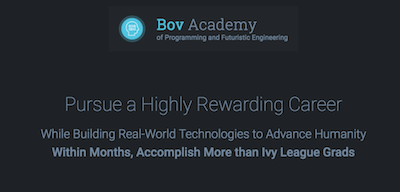
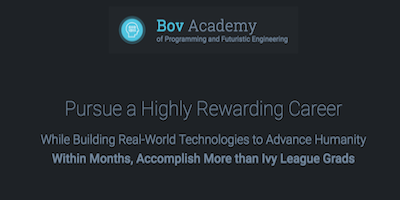
made herald responsive

diff --git a/index.html b/index.html
@@ -5446,21 +5446,19 @@ $search-second-size-multiplier: .7;
       <section class="website-components__component" id="herald">
 
       <h3>Herald Component</h3>
-      <p>Inspired by the heralds of yore who conveyed a monarch's proclamation, the main attraction of The Herald is the unfurling border and the dropped message with a banner. The component features a 400x200 image (or any 2:1 sized image if scaling up is desired) and a place for textual content. Ideally, The Herald is useful for small listings, although any message size will fit inside The Herald component because the height is determined and set dynamically.</p>
+      <p>Inspired by the heralds of yore who conveyed a monarch's proclamation, the main attraction of The Herald is the unfurling border and the dropped message with a banner. The component features an image with a width and height of 2:1 and a place for textual content. Ideally, The Herald is useful for small listings, although any message size will fit inside The Herald component because the message length is evaluated dynamically.</p>
 
-      <p>To use: <br> <br> I. Copy the markup below, then place announcements inside the <code>c-herald__message</code> tag. Each unique announcement must be placed within <code>&lt;p></code> tags. Next, add the number of announcements inside <code>c-chip__media--o</code>. Inputting the number of announcements is recommended in case users have disabled JavaScript. Note: The number of announcements in <code>c-chip__media--o </code> are based on the number of <code>&lt;p></code> tags. This number is updated dynamically in the event the number of announcements was not inputted.</p>
+      <p>To use: <br> <br>Copy the markup below, then place announcements inside the <code>c-herald__message</code> tag beneath the image. Each unique announcement must be placed within <code>&lt;p></code> tags. Next, add the number of announcements inside <code>c-chip__media--o</code>. Inputting the number of announcements is recommended in case users have disabled JavaScript. Note: The number of announcements in <code>c-chip__media--o </code> are based on the number of <code>&lt;p></code> tags. This number is updated dynamically in the event the number of announcements was not inputted.</p>
 
-      <p>II. The ideal size image is 400x200 pixels for the normal-size component. For a larger Herald, scale up the component by setting a larger font-size on <code>c-herald</code>, then use a 2:1 sized image that is proportionate to the larger component. For example, if a font-size of 2em is added as a property to <code>c-herald</code>, the image should be doubled to 800x400 pixels.</p>
+      <p> Include an image with the ideal size of 2:1 or a size that is near that ratio. The component’s width is fluid and should scale up and down.</p>
 
-      <p>Accessibility: In the event a user disables JavaScript, The Herald and all content inside it will be shown. There will be no animation and dynamic counting of a message's <code>&lt;p></code> tag, however. This is due to the nature of how the component resizes based on the message element's offsetHeight value.</p>
-
-      <p>Incompatibilities: <code>border-top</code> of the content div does not display in Safari.</p>
+      <p>Accessibility: In the event a user disables JavaScript, The Herald and all content inside it will still be shown to users. There will be no animation and dynamic counting of a message's <code>&lt;p></code> tag. This is due to the nature of how the component resizes based on a unique message's offsetHeight value.</p>
 
       <!-- component example grid container -->
       <div class="o-grid o-grid--gutters">
         <div class="o-grid__cell">
           <div class="c-herald__trigger c-chip--outlined" id="c-herald__trigger">
-            <span class="c-chip__media--o c-herald-c-chip__media--o">3</span>
+            <span class="c-chip__media--o c-herald-c-chip__media--o">5</span>
             Announcements
           </div>
           <div class="c-herald no-js" id="c-herald">
@@ -5468,10 +5466,12 @@ $search-second-size-multiplier: .7;
             <div class="c-herald__ribbon" id="c-herald__ribbon"></div>
             <div class="c-herald__content" id="c-herald__content">
               <div class="c-herald__message">
-                <img class="c-herald__img" src="https://www.genimg.com/400x200" alt="">
+                <div class="c-herald__img"></div>
                 <p>Drumpf Obama: FBI chief Comey 'rejects' phone tap allegation. <a class="c-herald__anchors" href="#">[Visit BBC.com]</a></p>
                 <p>The Queen is in search of a brawny grape-feeder. <a class="c-herald__anchors" href="#">[Apply Here]</a></p>
                 <p>What a strange world we live in. <a class="c-herald__anchors" href="#">[Find out why]</a></p>
+                <p>The Owl and the Pussy-cat went to sea, In a beautiful pea-green boat <a class="c-herald__anchors" href="https://www.poetryfoundation.org/poems-and-poets/poems/detail/43188">[Where did they go?]</a></p>
+                <p>Will eating melas zomos make you a badass Spartan? <a class="c-herald__anchors" href="https://en.wikipedia.org/wiki/Black_soup">[Find out why]</a></p>
               </div>
             </div>
           </div>
@@ -5489,22 +5489,22 @@ $search-second-size-multiplier: .7;
             <div class="c-collapse__content-container c-collapse__content-container--dark">
               <div class="c-collapse__content--prism-code-style">
               <pre class="u-pre--wrap"><code class="language-markup line-numbers">
-  &lt;div class=&quot;c-herald__trigger c-chip--outlined&quot; id=&quot;c-herald__trigger&quot;&gt;
-    &lt;span class=&quot;c-chip__media--o c-herald-c-chip__media--o&quot;&gt;3&lt;/span&gt;
-    Announcements
-  &lt;/div&gt;
-  &lt;div class=&quot;c-herald no-js&quot; id=&quot;c-herald&quot;&gt;
-    &lt;div class=&quot;c-herald__furled-border&quot; id=&quot;c-herald__furled-border&quot;&gt;&lt;/div&gt;
-    &lt;div class=&quot;c-herald__ribbon&quot; id=&quot;c-herald__ribbon&quot;&gt;&lt;/div&gt;
-    &lt;div class=&quot;c-herald__content&quot; id=&quot;c-herald__content&quot;&gt;
-      &lt;div class=&quot;c-herald__message&quot;&gt;
-        &lt;img class=&quot;c-herald__img&quot; src=&quot;https://www.genimg.com/400x200&quot; alt=&quot;&quot;&gt;
-        &lt;p&gt;Drumpf Obama: FBI chief Comey &apos;rejects&apos; phone tap allegation. &lt;a class=&quot;c-herald__anchors&quot; href=&quot;#&quot;&gt;[Visit BBC.com]&lt;/a&gt;&lt;/p&gt;
-        &lt;p&gt;The Queen is in search of a brawny grape-feeder. &lt;a class=&quot;c-herald__anchors&quot; href=&quot;#&quot;&gt;[Apply Here]&lt;/a&gt;&lt;/p&gt;
-        &lt;p&gt;What a strange world we live in. &lt;a class=&quot;c-herald__anchors&quot; href=&quot;#&quot;&gt;[Find out why]&lt;/a&gt;&lt;/p&gt;
-      &lt;/div&gt;
-    &lt;/div&gt;
-  &lt;/div&gt;
+                &lt;div class=&quot;c-herald__trigger c-chip--outlined&quot; id=&quot;c-herald__trigger&quot;&gt;
+                  &lt;span class=&quot;c-chip__media--o c-herald-c-chip__media--o&quot;&gt;5&lt;/span&gt;
+                  Announcements
+                &lt;/div&gt;
+                &lt;div class=&quot;c-herald no-js&quot; id=&quot;c-herald&quot;&gt;
+                  &lt;div class=&quot;c-herald__furled-border&quot; id=&quot;c-herald__furled-border&quot;&gt;&lt;/div&gt;
+                  &lt;div class=&quot;c-herald__ribbon&quot; id=&quot;c-herald__ribbon&quot;&gt;&lt;/div&gt;
+                  &lt;div class=&quot;c-herald__content&quot; id=&quot;c-herald__content&quot;&gt;
+                    &lt;div class=&quot;c-herald__message&quot;&gt;
+                      &lt;div class=&quot;c-herald__img&quot;&gt;&lt;/div&gt;
+                      &lt;p&gt;Text&lt;a class=&quot;c-herald__anchors&quot; href=&quot;#&quot;&gt;&lt;/a&gt;&lt;/p&gt;
+                      &lt;p&gt;Text&lt;a class=&quot;c-herald__anchors&quot; href=&quot;#&quot;&gt;&lt;/a&gt;&lt;/p&gt;
+                      ...
+                    &lt;/div&gt;
+                  &lt;/div&gt;
+                &lt;/div&gt;
               </code></pre>
               </div>
             </div>

diff --git a/rl-components/herald.html b/rl-components/herald.html
@@ -15,13 +15,13 @@
     <section class="website-components__component" id="herald">
 
     <h3>Herald Component</h3>
-    <p>Inspired by the heralds of yore who conveyed a monarch's proclamation, the main attraction of The Herald is the unfurling border and the dropped message with a banner. The component features a 400x200 image (or any 2:1 sized image if scaling up is desired) and a place for textual content. Ideally, The Herald is useful for small listings, although any message size will fit inside The Herald component because the message length is evaluated dynamically.</p>
+    <p>Inspired by the heralds of yore who conveyed a monarch's proclamation, the main attraction of The Herald is the unfurling border and the dropped message with a banner. The component features an image with a width and height of 2:1 and a place for textual content. Ideally, The Herald is useful for small listings, although any message size will fit inside The Herald component because the message length is evaluated dynamically.</p>
 
-    <p>To use: <br> <br> I. Copy the markup below, then place announcements inside the <code>c-herald__message</code> tag beneath the image. Each unique announcement must be placed within <code>&lt;p></code> tags. Next, add the number of announcements inside <code>c-chip__media--o</code>. Inputting the number of announcements is recommended in case users have disabled JavaScript. Note: The number of announcements in <code>c-chip__media--o </code> are based on the number of <code>&lt;p></code> tags. This number is updated dynamically in the event the number of announcements was not inputted.</p>
+    <p>To use: <br> <br>Copy the markup below, then place announcements inside the <code>c-herald__message</code> tag beneath the image. Each unique announcement must be placed within <code>&lt;p></code> tags. Next, add the number of announcements inside <code>c-chip__media--o</code>. Inputting the number of announcements is recommended in case users have disabled JavaScript. Note: The number of announcements in <code>c-chip__media--o </code> are based on the number of <code>&lt;p></code> tags. This number is updated dynamically in the event the number of announcements was not inputted.</p>
 
-    <p>II. The ideal size image is 400x200 pixels for the normal-size component. For a larger Herald, scale up the component by setting a larger font-size on <code>c-herald</code>, then use a 2:1 sized image that is proportionate to the larger component. For example, if a font-size of 2em is added as a property to <code>c-herald</code>, the image should be doubled to 800x400 pixels.</p>
+    <p> Include an image with the ideal size of 2:1 or a size that is near that ratio. The component’s width is fluid and should scale up and down.</p>
 
-    <p>Accessibility: In the event a user disables JavaScript, The Herald and all content inside it will be shown. There will be no animation and dynamic counting of a message's <code>&lt;p></code> tag, however. This is due to the nature of how the component resizes based on a unique message's offsetHeight value.</p>
+    <p>Accessibility: In the event a user disables JavaScript, The Herald and all content inside it will still be shown to users. There will be no animation and dynamic counting of a message's <code>&lt;p></code> tag. This is due to the nature of how the component resizes based on a unique message's offsetHeight value.</p>
 
     <!-- component example grid container -->
     <div class="o-grid o-grid--gutters">
@@ -58,21 +58,22 @@
           <div class="c-collapse__content-container c-collapse__content-container--dark">
             <div class="c-collapse__content--prism-code-style">
             <pre class="u-pre--wrap"><code class="language-markup line-numbers">
-&lt;div class=&quot;c-herald__trigger c-chip--outlined&quot; id=&quot;c-herald__trigger&quot;&gt;
-  &lt;span class=&quot;c-chip__media--o c-herald-c-chip__media--o&quot;&gt;5&lt;/span&gt;
-  Announcements
-&lt;/div&gt;
-&lt;div class=&quot;c-herald no-js&quot; id=&quot;c-herald&quot;&gt;
-  &lt;div class=&quot;c-herald__furled-border&quot; id=&quot;c-herald__furled-border&quot;&gt;&lt;/div&gt;
-  &lt;div class=&quot;c-herald__ribbon&quot; id=&quot;c-herald__ribbon&quot;&gt;&lt;/div&gt;
-  &lt;div class=&quot;c-herald__content&quot; id=&quot;c-herald__content&quot;&gt;
-    &lt;div class=&quot;c-herald__message&quot;&gt;
-      &lt;div class=&quot;c-herald__img&quot;&gt;&lt;/div&gt;
-      &lt;p&gt;...&lt;a class=&quot;c-herald__anchors&quot; href=&quot;#&quot;&gt;&lt;/a&gt;&lt;/p&gt;
-      &lt;p&gt;...&lt;a class=&quot;c-herald__anchors&quot; href=&quot;#&quot;&gt;&lt;/a&gt;&lt;/p&gt;...
-    &lt;/div&gt;
-  &lt;/div&gt;
-&lt;/div&gt;
+              &lt;div class=&quot;c-herald__trigger c-chip--outlined&quot; id=&quot;c-herald__trigger&quot;&gt;
+                &lt;span class=&quot;c-chip__media--o c-herald-c-chip__media--o&quot;&gt;5&lt;/span&gt;
+                Announcements
+              &lt;/div&gt;
+              &lt;div class=&quot;c-herald no-js&quot; id=&quot;c-herald&quot;&gt;
+                &lt;div class=&quot;c-herald__furled-border&quot; id=&quot;c-herald__furled-border&quot;&gt;&lt;/div&gt;
+                &lt;div class=&quot;c-herald__ribbon&quot; id=&quot;c-herald__ribbon&quot;&gt;&lt;/div&gt;
+                &lt;div class=&quot;c-herald__content&quot; id=&quot;c-herald__content&quot;&gt;
+                  &lt;div class=&quot;c-herald__message&quot;&gt;
+                    &lt;div class=&quot;c-herald__img&quot;&gt;&lt;/div&gt;
+                    &lt;p&gt;Text&lt;a class=&quot;c-herald__anchors&quot; href=&quot;#&quot;&gt;&lt;/a&gt;&lt;/p&gt;
+                    &lt;p&gt;Text&lt;a class=&quot;c-herald__anchors&quot; href=&quot;#&quot;&gt;&lt;/a&gt;&lt;/p&gt;
+                    ...
+                  &lt;/div&gt;
+                &lt;/div&gt;
+              &lt;/div&gt;
             </code></pre>
             </div>
           </div>

diff --git a/styles/sass/_components.herald.scss b/styles/sass/_components.herald.scss
@@ -34,7 +34,7 @@
   }
   &__img {
     background: url("../../images/bovacad.png");
-    height: 12.5em;
+    height: 50%;
     @include background-img;
     width: 100%;
   }
@@ -124,5 +124,17 @@
     &__content, &__message {
       width: 100%;
     }
+    &__img {
+      background-size: contain;
+    }
+    &.no-js > .c-herald__ribbon {
+      transform: translateY(-14em);
+    }
+  }
+}
+
+@media (min-width: 2000px) {
+  .c-herald {
+    font-size: 1.5em;
   }
 }
